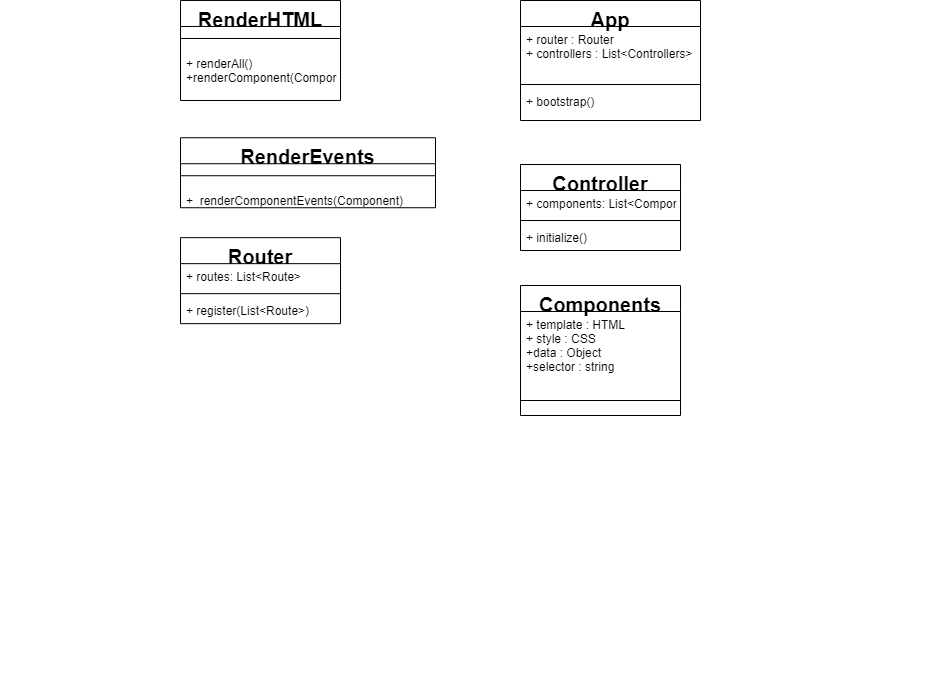
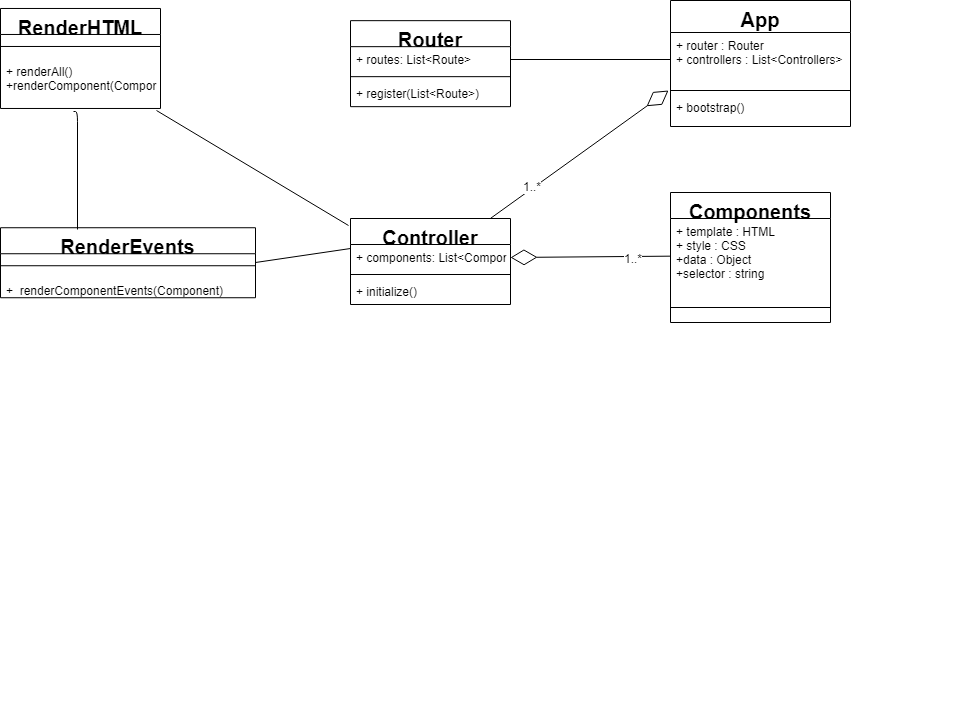
Class Diagram

diff --git a/Raport/index.html b/Raport/index.html
@@ -230,7 +230,7 @@
                 Am reprezentat clasele de baza împreuna cu proprietățile și metodele necesare pentru
                 prototipul framework-ului, urmând ca acestea să fie completate pe parcursul dezvoltării.
             </p>
-            <img src="#" alt="Diagrama de clase">
+            <img src="../resources/architecture/FrameworkClassDiagram.png" alt="Diagrama de clase">
         </section>
     </section>
 
